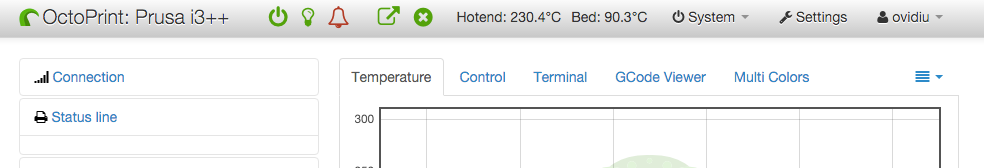
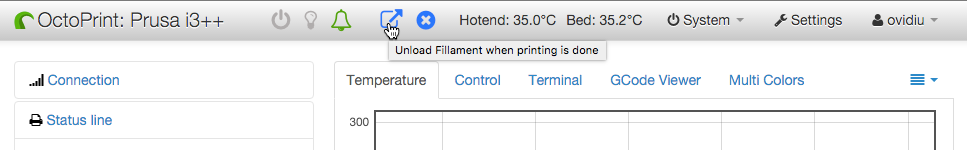
change colours

diff --git a/octoprint_switch/static/js/switch.js b/octoprint_switch/static/js/switch.js
@@ -1,3 +1,11 @@
+var inactive = "#f5f5f5"; //white
+
+var color_on = "#24AC00"; //green
+var color_off = "#B1ADAD"; //grey
+
+var action_on = "#3466FF"; //blue
+var action_off = "#B1ADAD"; //red
+
 $(function() {
 	function switchPluginViewModel(viewModels) {
 		var self = this;
@@ -25,20 +33,20 @@ $(function() {
 			self.unload = JSON.parse(data.unload);
 			self.poweroff = JSON.parse(data.poweroff);
 			
-			self.isPower( self.power ? '#24AC00' : '#BF210E' );
-			self.isLights( self.lights ? '#24AC00' : '#BF210E' );
-			self.isMute( self.mute ? '#BF210E' : '#24AC00' );
-			self.willUnload( self.unload ? '#24AC00' : '#BF210E' );
-			self.willPowerOff( self.poweroff ? '#24AC00' : '#BF210E' );
+			self.isPower( self.power ? color_on : color_off );
+			self.isLights( self.lights ? color_on : color_off );
+			self.isMute( self.mute ? color_off : color_on );
+			self.willUnload( self.unload ? action_on : action_off );
+			self.willPowerOff( self.poweroff ? action_on : action_off );
 		}
 		
 		
 		self.onServerDisconnect = function(){
-			self.isPower( '#aaa' );
-			self.isLights( '#aaa' );
-			self.isMute( '#aaa' );
-			self.willUnload( '#aaa' );
-			self.willPowerOff( '#aaa' );
+			self.isPower( inactive );
+			self.isLights( inactive );
+			self.isMute( inactive );
+			self.willUnload( inactive );
+			self.willPowerOff( inactive );
 			return true;
 		}
 		
@@ -58,7 +66,7 @@ $(function() {
 		};
 		
 		self.toggleMute = function() {
-			self.isMute( '#aaa' );
+			self.isMute( inactive );
 			self.sendCommand({"command":"mute", "status":!self.mute});
 		}
 
@@ -68,32 +76,32 @@ $(function() {
 				showConfirmationDialog({
 							 message: "You are about to stop the printer. This will stop your current job.",
 							 onproceed: function() {
-									self.isPower( '#aaa' );
+									self.isPower( inactive );
 									self.sendCommand({"command":"power", "status":false});
 							 }});
 				 } else {
-		 			self.isPower( '#aaa' );
+		 			self.isPower( inactive );
 				 	self.sendCommand({"command":"power", "status":false});
 				 }
 			} else {
-				self.isPower( '#aaa' );
+				self.isPower( inactive );
 				self.sendCommand({"command":"power", "status":true});
 			}
 			
 		}
 		
 		self.toggleLights = function() {
-			self.isLights( '#aaa' );
+			self.isLights( inactive );
 			self.sendCommand({"command":"lights", "status":!self.lights});
 		}
 
 		self.toggleUnload = function() {
-			self.willUnload( '#aaa' );
+			self.willUnload( inactive );
 			self.sendCommand({"command":"unload", "status":!self.unload});
 		}
 
 		self.togglePowerOff = function() {
-			self.willPowerOff( '#aaa' );
+			self.willPowerOff( inactive );
 			self.sendCommand({"command":"poweroff", "status":!self.poweroff});
 		}
 

diff --git a/README.md b/README.md
@@ -1,5 +1,5 @@
-Add switch buttons for: 
-- switching printer on/off printer (confirm if currently printing)
+Add switch buttons for:
+- switching printer on/off (confirm if currently printing)
 - switch  IR LED ligths on/off
 - mute alert sounds (M300 @)
 - unload filament after printing finished
